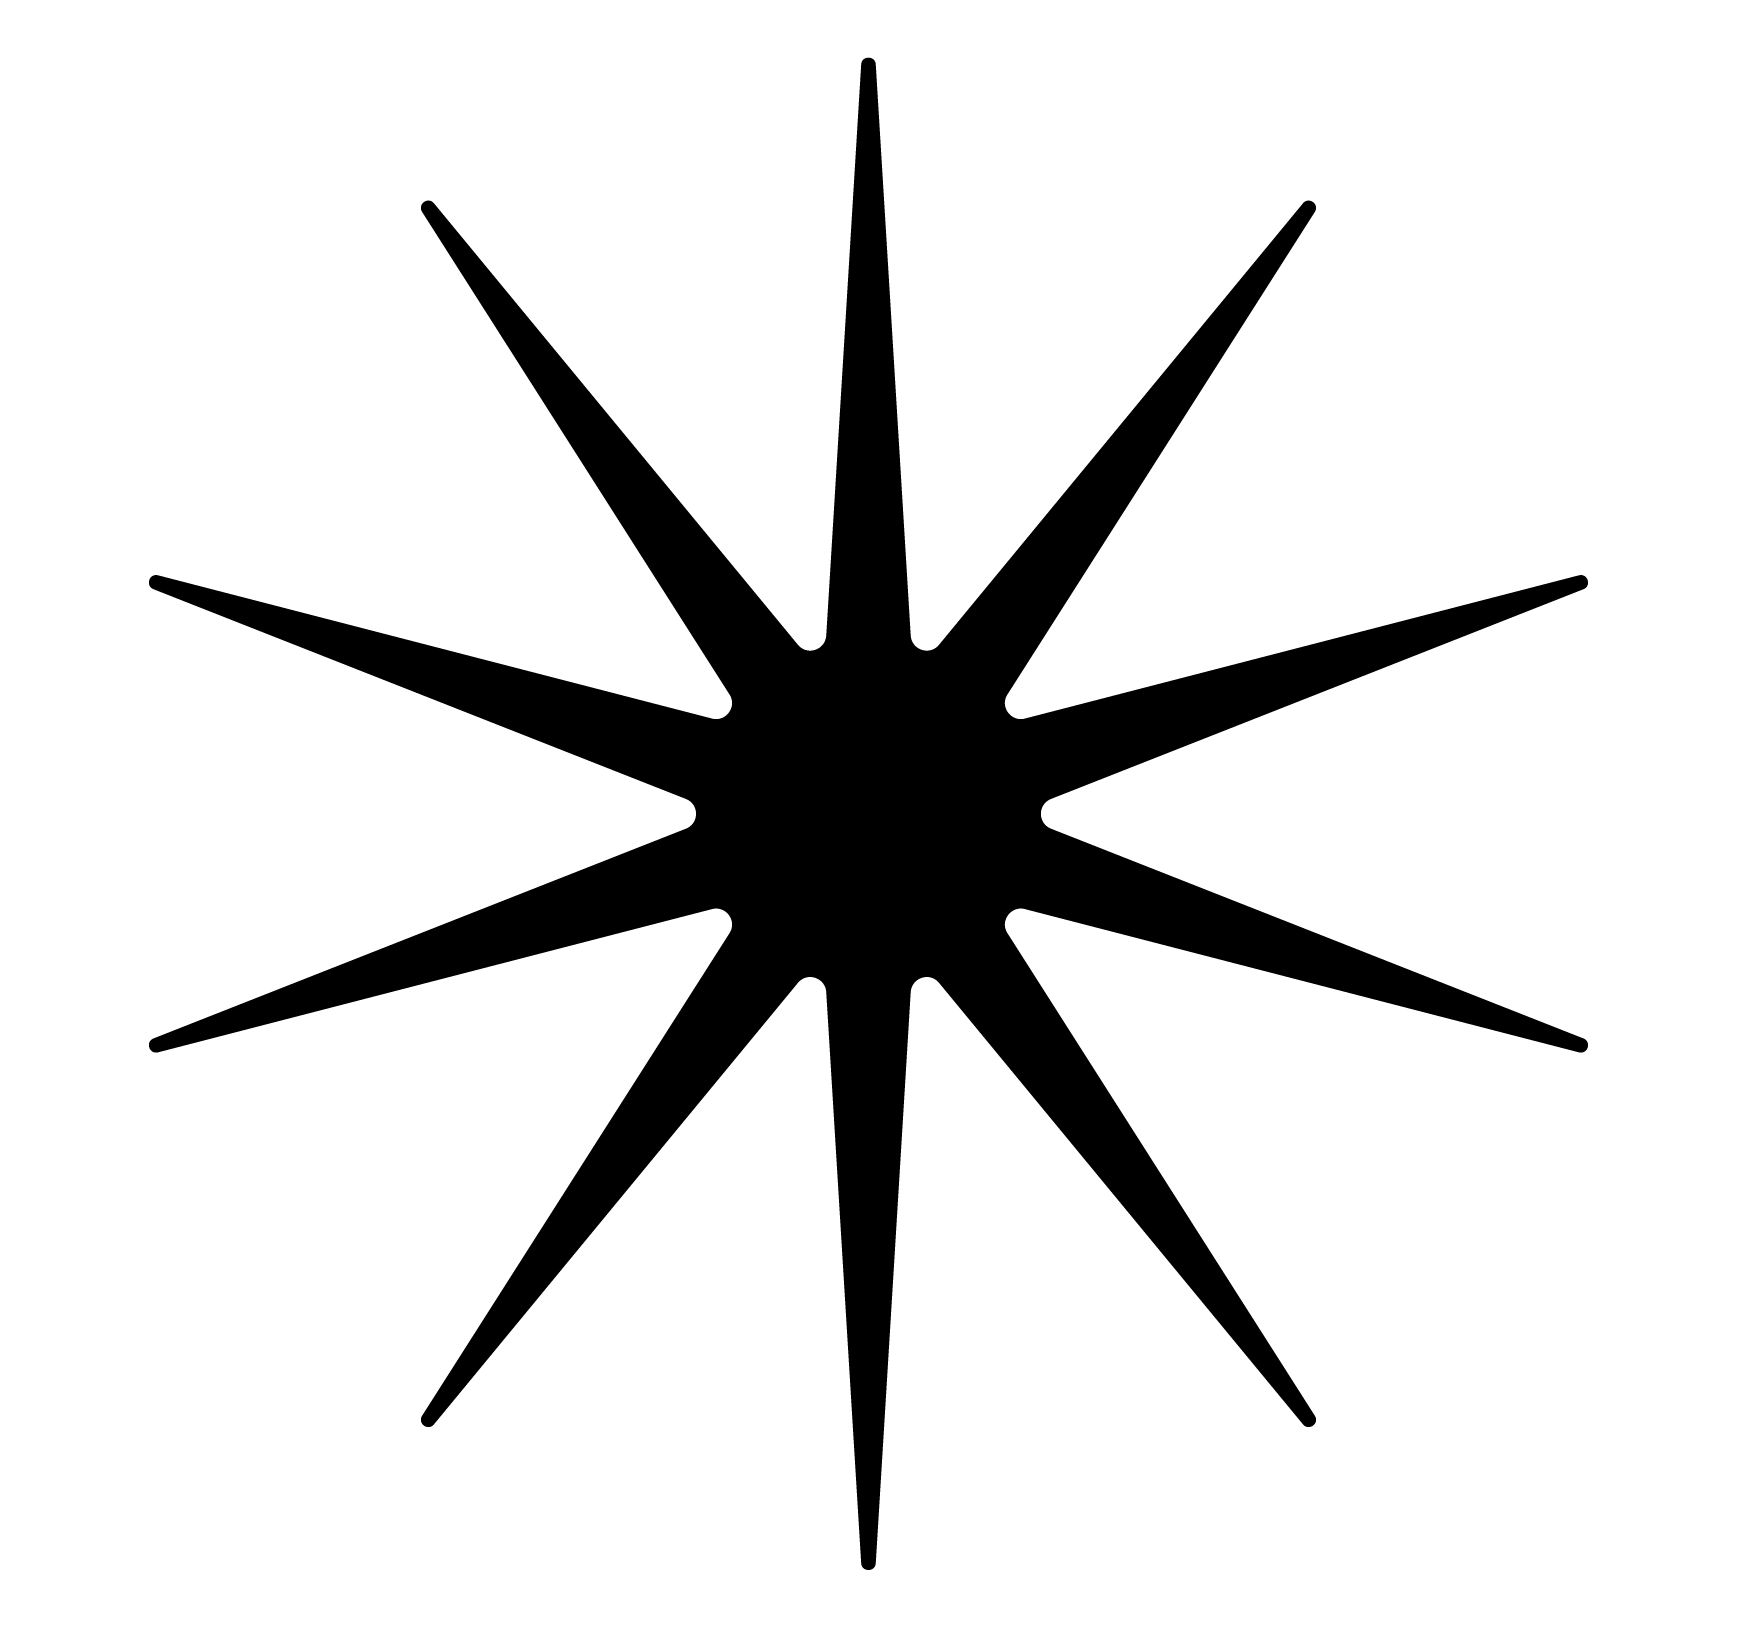
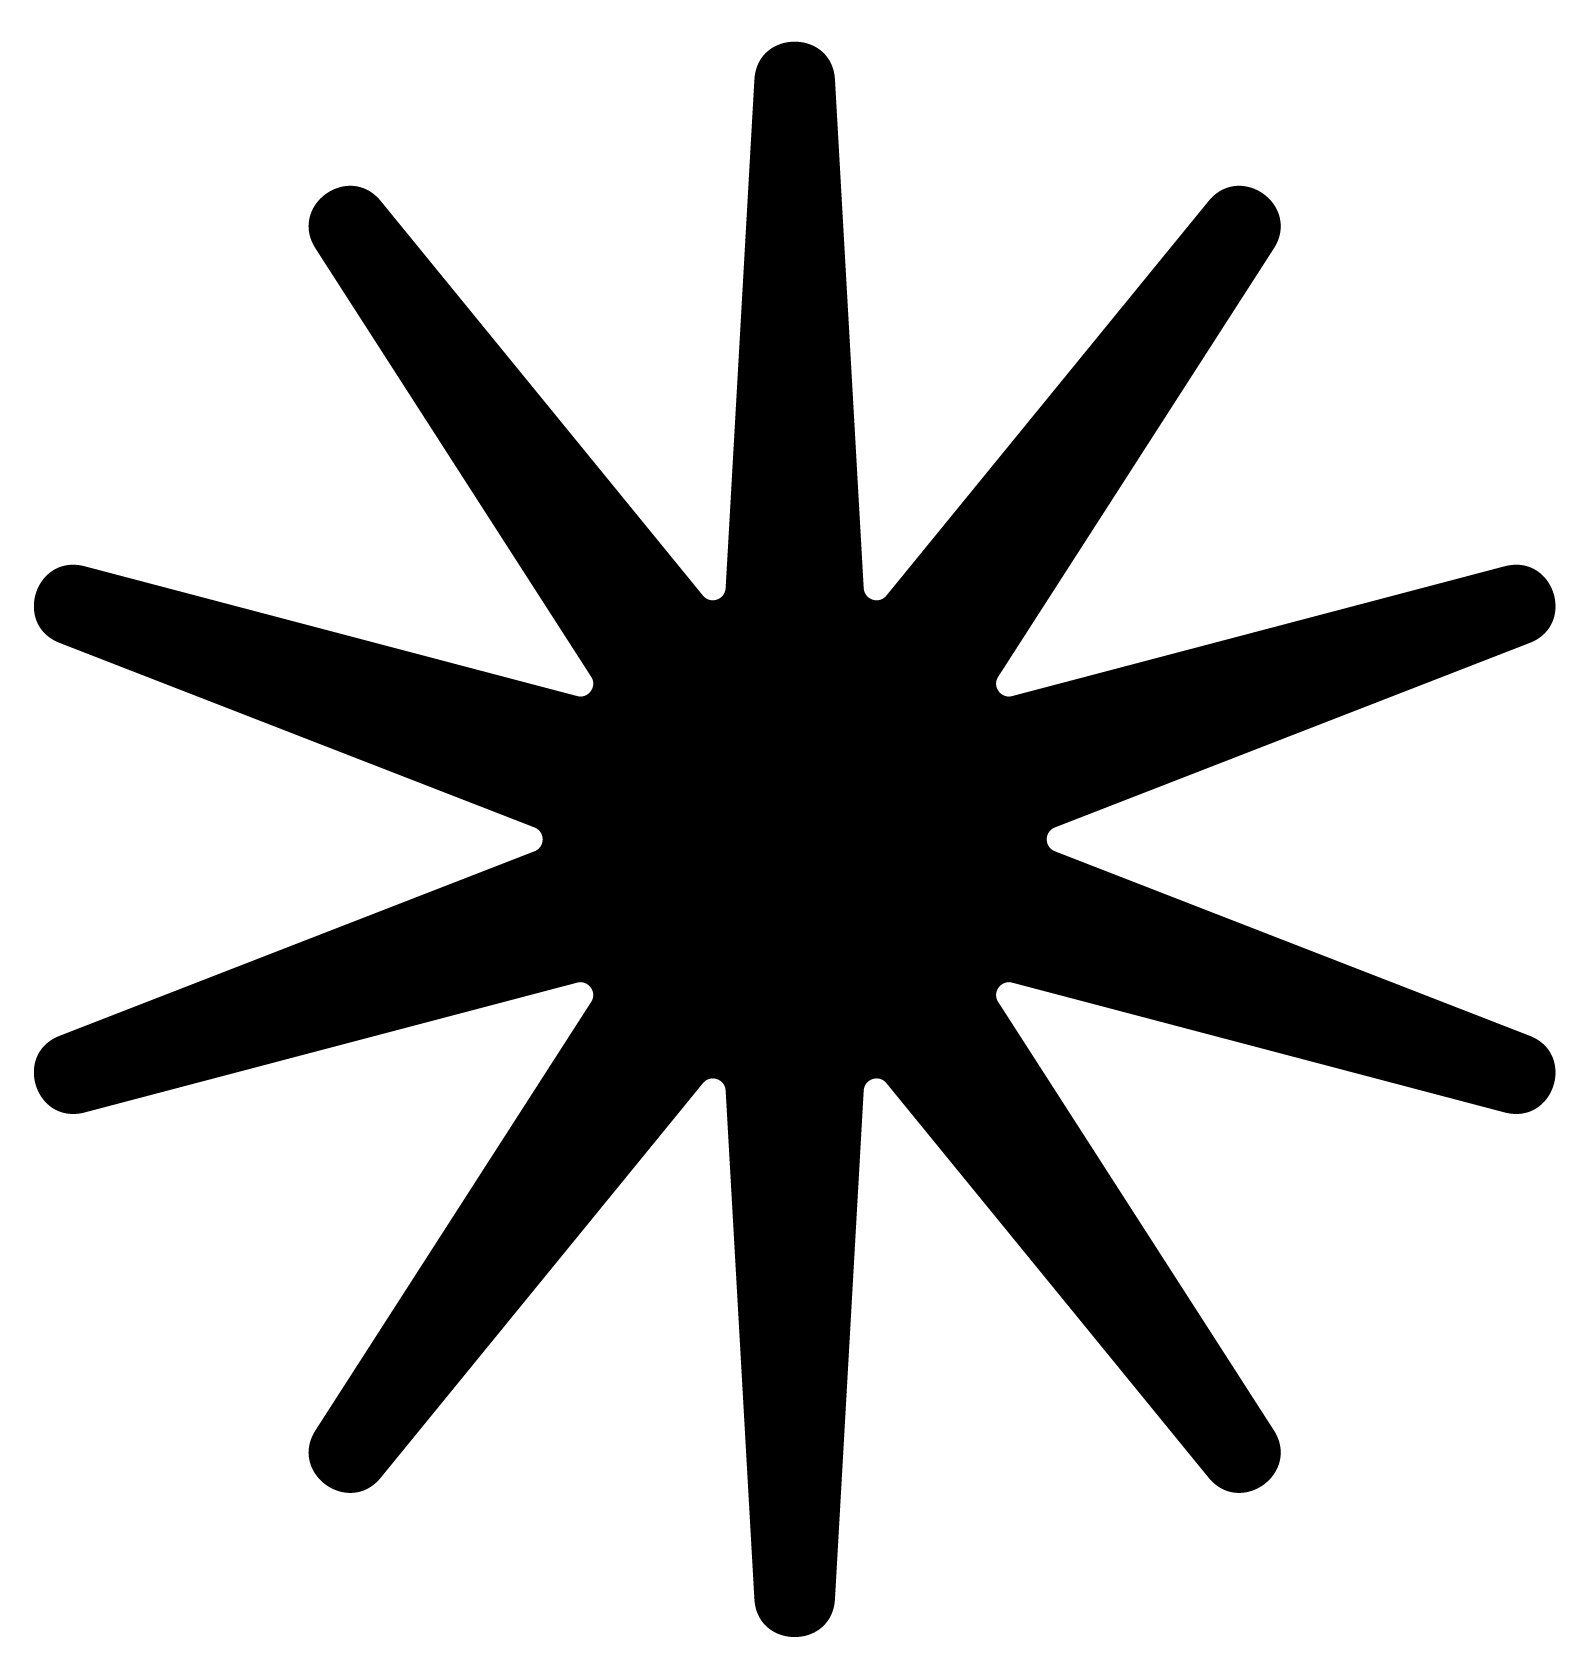
Edit the about page

Changed region(s): [[0.0, 0.0, 0.9862, 0.9828], [0.5855, 0.6757, 0.6164, 0.7064], [0.3698, 0.2764, 0.4006, 0.3071]]

diff --git a/src/pages/About/About.tsx b/src/pages/About/About.tsx
@@ -86,9 +86,10 @@ export default function About() {
                 lg:text-[38px]
               "
             >
-              I'm Mahmoud El-Dahshan, a Brand Strategist with more than six
-              years of experience in branding, having started as a designer
-              before moving into a more strategic role.
+              I’m Mahmoud El-Dahshan, a Brand Strategist with diverse experience in the field.
+               I began my career as a designer before gradually transitioning into a role deeply focused on strategy,
+                expanding my perspective from designing brand identities to understanding the thinking,
+                 principles, and strategy behind them.
             </p>
 
             <p

diff --git a/src/components/PageMarquee/PageMarqueReverse.tsx b/src/components/PageMarquee/PageMarqueReverse.tsx
@@ -59,7 +59,14 @@ function MarqueeItem({ title }: { title: string }) {
 function SpinningImage() {
   return (
     <motion.div
-      className="h-30 w-30 shrink-0"
+      className="
+        h-6 w-6
+        shrink-0
+        sm:h-12 sm:w-12
+        md:h-[72px] md:w-[72px]
+        lg:h-[88px] lg:w-[88px]
+        xl:h-28 xl:w-28
+      "
       animate={{ rotate: 360 }}
       transition={{
         duration: 10,
